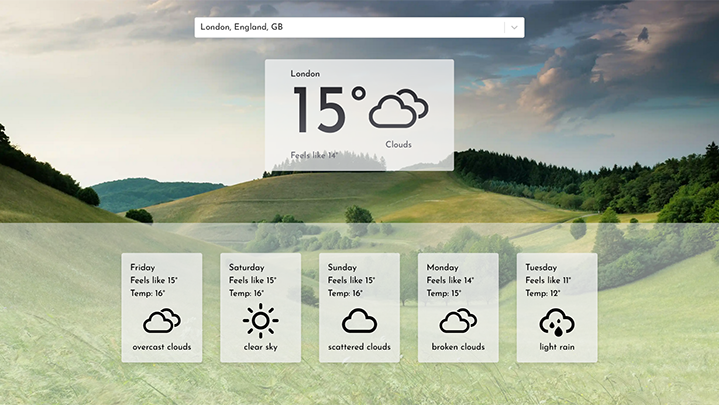
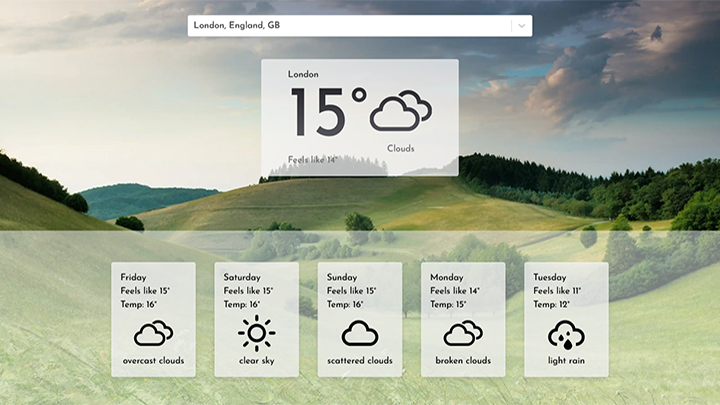
Image update

diff --git a/src/data/projects.js b/src/data/projects.js
@@ -10,14 +10,13 @@
   }, 
 
   */
- "https://live.staticflickr.com/65535/52490533024_f40537eace_z.jpg"
 export default [
   {
     title: "Weather App 3.0",
     codebase: ["html", "react", "axios", "tailwindcss"],
     description: "Weather App 3.0 is the most aesthetic and responsive version yet. Plus, SEARCHABLE 🤯",
     url: "https://regal-sfogliatella-47f736.netlify.app/",
-    image: "https://live.staticflickr.com/65535/52490533024_f40537eace_z.jpg",
+    image: "https://live.staticflickr.com/65535/52490917123_8e8613974c_z.jpg",
   }, 
   {
     title: "Weekly Planner",
